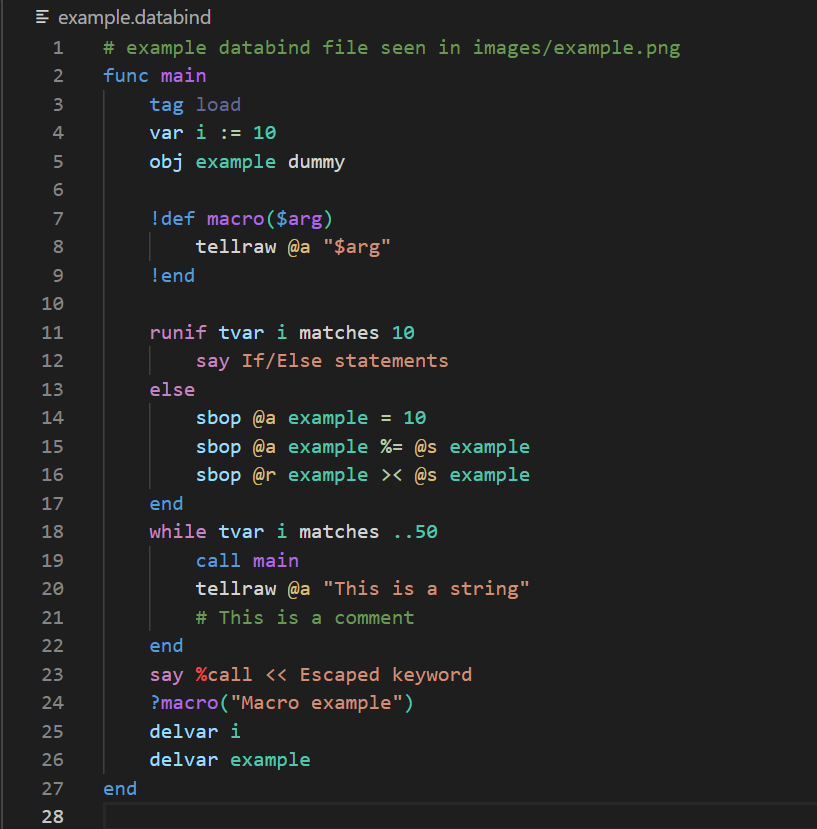
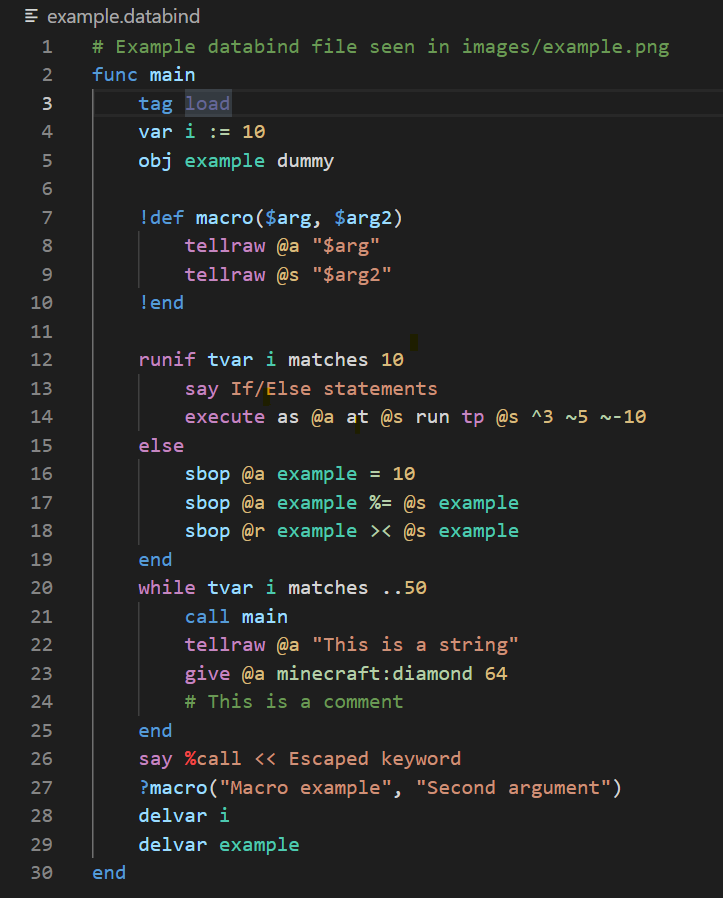
Update to 0.5.0

diff --git a/CHANGELOG.md b/CHANGELOG.md
@@ -1,5 +1,16 @@
 # Change Log
 
+## Recolour [0.5.0] (Feb. 18, 2022)
+
+### Additions
+- All base mcfunction commands are now highlighted
+- Tokenized all words that start with "minecraft:"
+- Colourized the tilda(~) and caret(^) symbols
+
+### Changes
+- Lots of changes to colour to improve how it looks
+- Added more commands to the example file/image to display more of the features
+
 ## Match Exact Words [0.4.1] (Sept. 18, 2021)
 
 ### Changes
